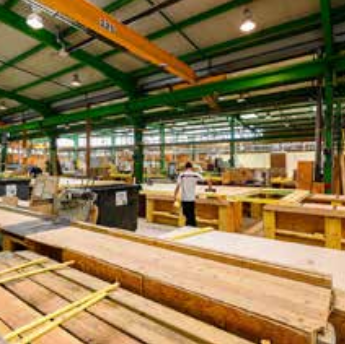
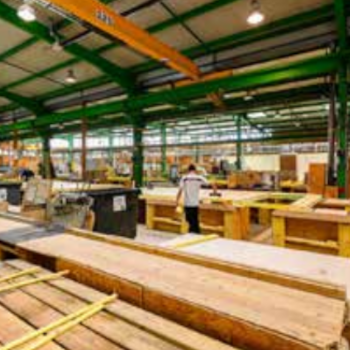
footer marges revues, pb carousel avec image cachée résolu, images allégées et carrées

diff --git a/index.html b/index.html
@@ -10,7 +10,7 @@
 <body>
   <!-- Header Logo et barre de navigation-->
 
-<div class="font-weight-bold fixed-top">
+<div class="font-weight-bold sticky-top">
     <nav class=" nav navbar navbar-expand-lg navbar-light bg-white">
       <!--Logo-->
       <a class="navbar-brand" href="index.html"><img src="assets/img/IMG2/Logobasdef.png" alt="logopiccolino" class="logo" width="auto" height="80em"></a>
@@ -22,7 +22,7 @@
        <div id="navbarContent" class="collapse navbar-collapse justify-content-end">
           <ul class="navbar-nav">
             <li class="nav-item active">
-              <a class="nav-link" href="#ancre0">Accueil</a>
+              <a class="nav-link" href="index.html">Accueil</a>
             </li>
             <li class="nav-item">
               <a class="nav-link" href="#ancre1">Gammes</a>
@@ -42,15 +42,15 @@
 <!-- Carousel -->
 
 <div id="carouselControls" class="carousel slide" data-ride="carousel">
-  <div class="carousel-inner" id="ancre0">
+  <div class="carousel-inner">
     <!--section première image-->
     <div class="carousel-item active">
       <img src="assets/img/IMG1/livingroom.jpg" class="d-block w-100" alt="First slide">
       <div class="carousel-caption d-none d-lg-block zonetextcarousel">
         <span class="titretextcarousel">Bienvenue</span>
         <p>Lorem ipsum dolor sit amet, consectetur adipisicing elit, sed do eiusmod
-        tempor incididunt ut labore et dolore magna aliqua. Ut enim ad minim veniam,
-        quis nostrud exercitation ullamco laboris nisi ut. </p>
+        tempor incididunt uta. Ut enim ad minim veniam,
+        quis nostrud exercitation . </p>
       </div>
     </div>
     <!--section deuxième image-->
@@ -59,7 +59,7 @@
       <div class="carousel-caption d-none d-lg-block zonetextcarousel">
         <span class="titretextcarousel">Présentation</span>
         <p>Lorem ipsum dolor sit amet, consectetur adipisicing elit, sed do eiusmod
-        tempor incididunt ut labore et dolore magna aliqua. Ut enim ad minim veniam,
+        tempor incididunt ut  aliqua. Ut eniniam,
         quis nostrud exercitation ullamco laboris nisi ut. </p>
       </div>
     </div>
@@ -76,10 +76,10 @@
     <div class="carousel-item">
       <img src="assets/img/IMG1/musique.jpg" class="d-block w-100" alt="Third slide">
       <div class="carousel-caption d-none d-lg-block zonetextcarousel">
-        <span class="titretextcarousel">Partageons la musique ensemble</span>
+        <span class="titretextcarousel">Partageons la musique</span>
         <p>Lorem ipsum dolor sit amet, consectetur adipisicing elit, sed do eiusmod
         tempor incididunt ut labore et dolore magna aliqua. Ut enim ad minim veniam,
-        quis nostrud exercitation ullamco. </p>
+        quis nostrud . </p>
       </div>
     </div>
   </div>
@@ -533,8 +533,7 @@
 
 <!--FOOTER-->
 <footer id="ancre3">
-  <div class="container">
-  <div class="row">
+  <div class="row m-5">
     <!--informations contact et réseaux sociaux-->
     <div class="col-12 col-md-6 col-lg-4">
       <div class="card sectionfooter">
@@ -618,22 +617,19 @@
       </div>  
     </div>
   <!--google map situant l'entreprise-->
-  <div class="col-12 col-md-12 col-lg-4">
+  <div class="col-12 col-lg-12 col-xl-4 mapthere">
     <div class="card sectionfooter mapsection">
         <div class="card-body">
           <div class="card-title titrefooter">Nous Trouver</div>
           <div class="card-text">
-            <iframe src="https://www.google.com/maps/embed?pb=!1m18!1m12!1m3!1d2625.1938654970827!2d2.4338294152378284!3d48.85451347928702!2m3!1f0!2f0!3f0!3m2!1i1024!2i768!4f13.1!3m3!1m2!1s0x47e66d5f8bcaf5ff%3A0x1e2dad82b90c5e3b!2s55%20Rue%20de%20Vincennes%2C%2093100%20Montreuil!5e0!3m2!1sfr!2sfr!4v1607002450674!5m2!1sfr!2sfr" width="400" height="300" frameborder="0" style="border:0;" allowfullscreen="" aria-hidden="false" tabindex="0" class="map"></iframe>
-          </div>
+            <iframe src="https://www.google.com/maps/embed?pb=!1m18!1m12!1m3!1d2625.1938654970827!2d2.4338294152378284!3d48.85451347928702!2m3!1f0!2f0!3f0!3m2!1i1024!2i768!4f13.1!3m3!1m2!1s0x47e66d5f8bcaf5ff%3A0x1e2dad82b90c5e3b!2s55%20Rue%20de%20Vincennes%2C%2093100%20Montreuil!5e0!3m2!1sfr!2sfr!4v1607002450674!5m2!1sfr!2sfr" frameborder="0" style="border:0;" allowfullscreen="" aria-hidden="true" tabindex="0" class="map"></iframe>
         </div>
       </div>  
     </div>
-</div>
-<div class="row">
-  <div class="col-12">
-    <p class="text-center mentions"><a href="">Mentions légales</a> - Copyright &#169; 2020</p>
   </div>
 </div>
+  <div class="col-12 mention">
+    <p class="text-center mentions"><a href="">Mentions légales</a> - Copyright &#169; 2020</p>
 </div>
 </footer>
 

diff --git a/assets/css/style.css b/assets/css/style.css
@@ -13,11 +13,13 @@ body{
 
 .bg-white{
 	border-bottom:3px solid #DFCB00;
-	font-size:1.8em;
+	font-size:1.7em;
 	color:black;
 	letter-spacing: 0.2em;
 }
-
+nav{
+	margin-bottom: 100px;
+}
 li{
 	margin:0.3em;
 	color: black !important;
@@ -236,9 +238,8 @@ h4{
 }
 /*image atelier et infrastructures*/
 .imageorigine{
-	height:20em;
-	width: auto;
 	text-align: center;
+	width:100%;
 }
 
 /*titres Nos Origines et Nos Infrastructures*/
@@ -405,9 +406,10 @@ textarea{
 	align-items: center;
 }
 .map{
-	height:20em;
-	width: 20em;
+	width: 350px;
+	height: 350px;
 	text-align: center;
+	margin:0;
 	margin-top: 8%;
 }
 
@@ -419,13 +421,30 @@ textarea{
 	font-size: 0.9em;
 }
 
+.mention{
+	padding-bottom: 10px;
+}
+
 /*MEDIA QUERIES*/
 
-@media screen and (max-width: 1040px){
-	.imageorigine{
-		height:15em;
-		width: auto;
+@media screen and (min-width: 1450px){
+	.map{
+		height:30em;
+		width: 30em;
 	}
+
+	.sectionfooter{
+		margin:0;
+	}
+}
+@media screen and (max-width: 1199px){
+.map{
+	height:55em;
+	width: 55em;
+}
+}
+
+@media screen and (max-width: 990px){
 
 	.iconeRS{
 	height:1.8em;
@@ -433,15 +452,18 @@ textarea{
 }
 
 	.map{
-	height:15em;
-	width: 15em;
+	height:35em;
+	width: 35em;
 }
 }
 
 @media screen and (max-width: 800px){
-	.imageorigine{
-		height:26em;
-		width: auto;
+
+	.map{
+		height:25em;
+		width: 25em;
+
+
 	}
 
 	.iconeRS{
@@ -475,11 +497,7 @@ h1{
 h2{
 	font-size:2em;
 }
-/*carousel*/
-	.carousel{
-		margin-top:9%;
-		padding-top: 10%;
-	}
+
 
 /*section gamme*/
 	.petittext{
@@ -505,33 +523,45 @@ h2{
 		font-size: 1em;
 	}
 
-	.imageorigine{
-		height:12em;
-		width: auto;
-	}
 /*reseauxsociaux footer*/
 
 	.iconeRS{
 	height:2.5em;
 	width: auto;
 	}
+
+		.map{
+		height:15em;
+		width: 15em;
+		margin-top:0;
+	}
+	.form-style {
+  width: 230px;
+
+}
 }
 
 @media screen and (max-width: 400px){
+
 
 	.carousel-control-prev-icon, .carousel-control-next-icon { 
     height: 3em; 
     width: 3em;
 	}
+	
 }
 
 @media screen and (max-width: 300px){
-	.imageorigine{
-		height:9em;
-		width: auto;
-	}
+
 
 	.iconeRS{
 	height:2.2em;
 	width: auto;
+}
+
+.form-style {
+  width: 130px;
+
+}
+
 }

diff --git a/assets/js/script.js b/assets/js/script.js
@@ -1,4 +1,4 @@
-document.querySelectorAll('a[href^="#"]').forEach(anchor => {
+document.querySelectorAll('a[href^="#ancre"]').forEach(anchor => {
     anchor.addEventListener('click', function (e) {
         e.preventDefault();
 
